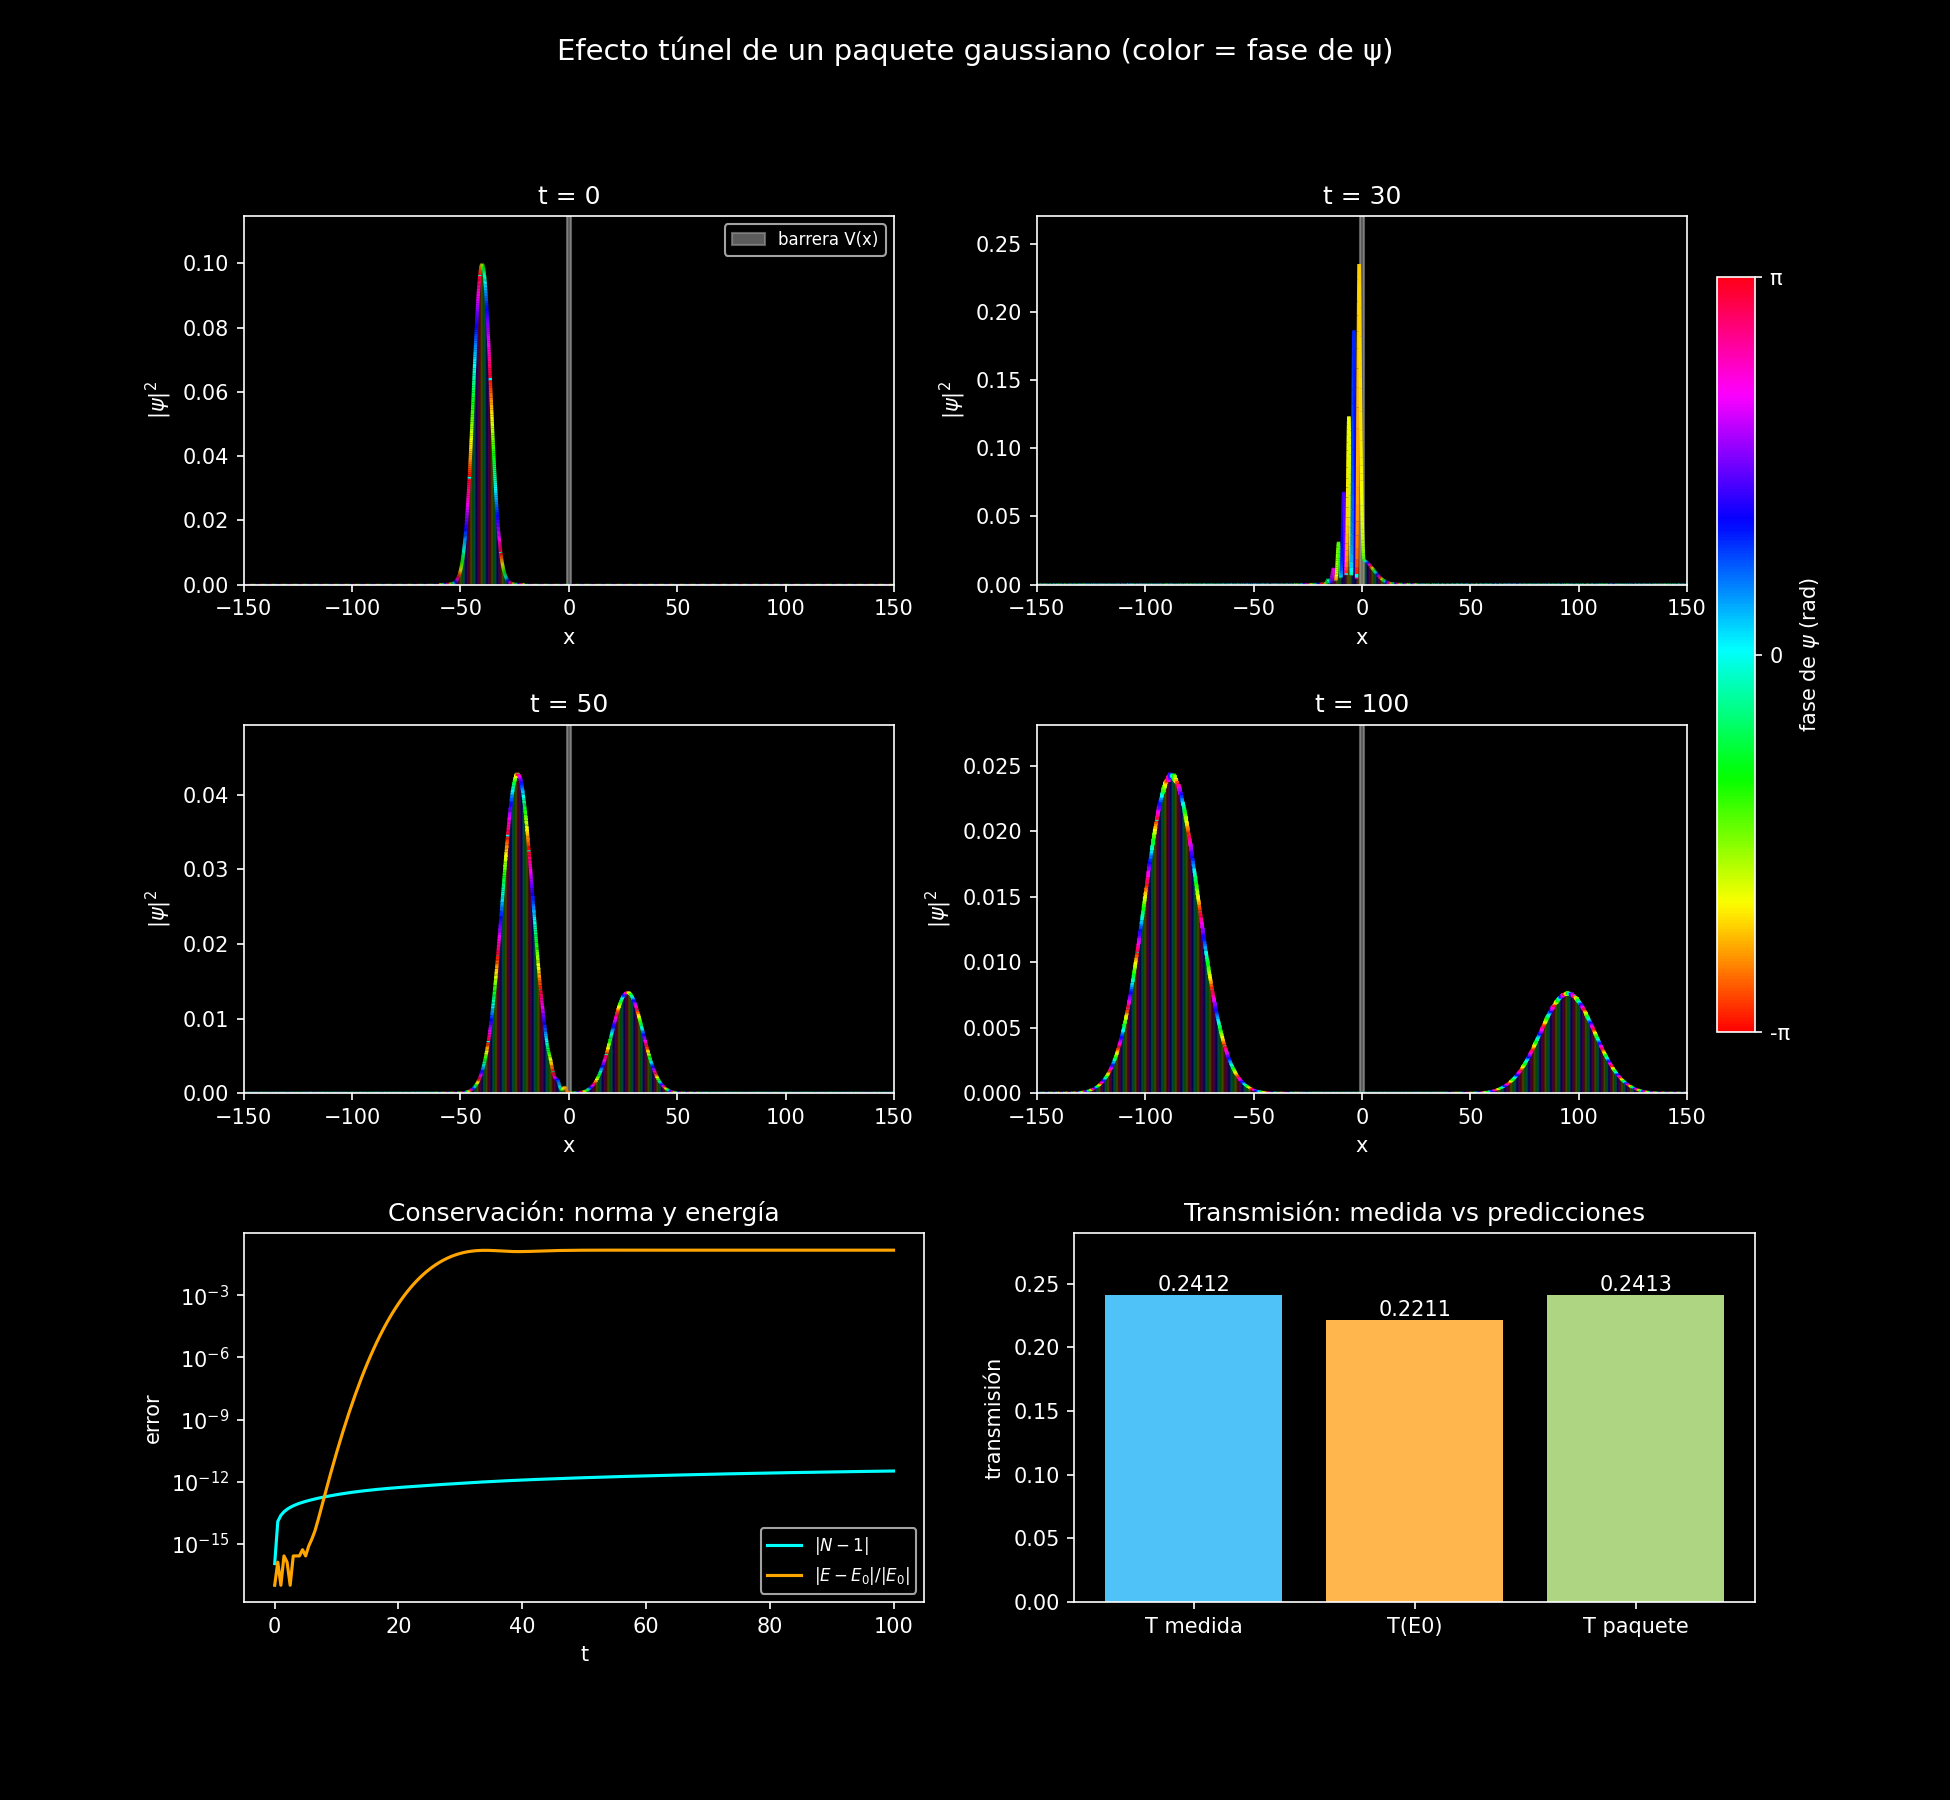
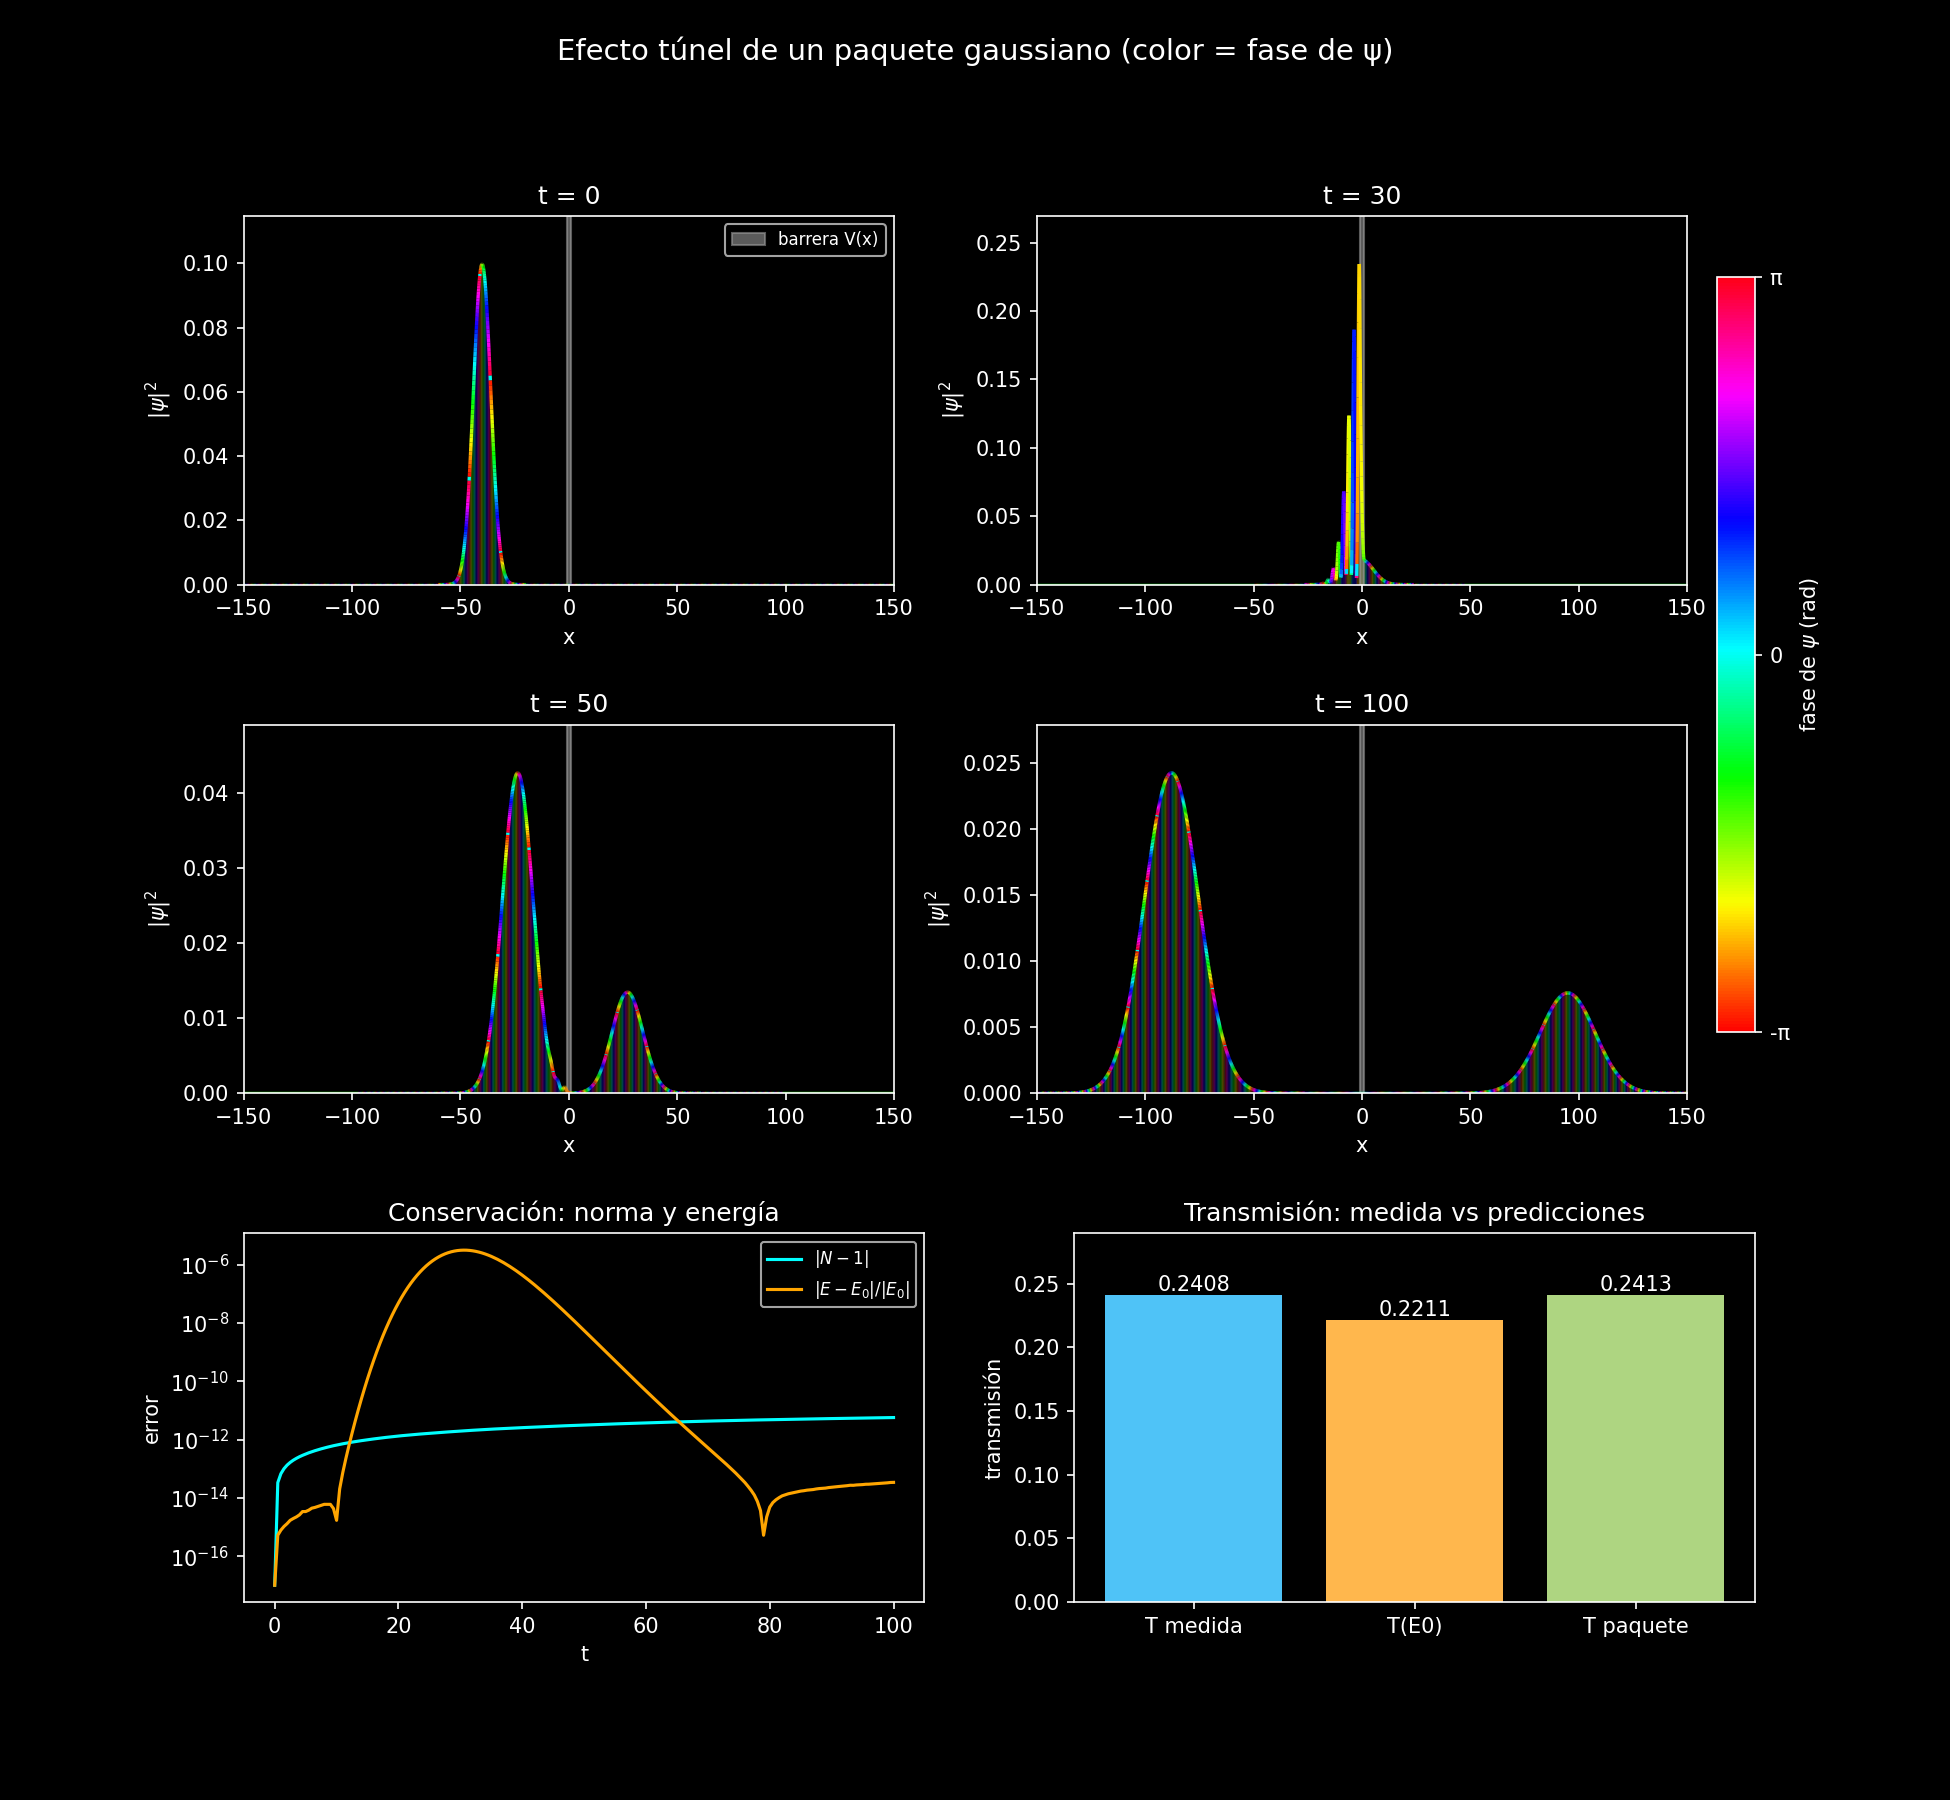
Experimento 01: base N=4096 dt=0.005 con fase por paso <= pi (decision 0007)

diff --git a/experiments/01_tunneling.py b/experiments/01_tunneling.py
@@ -9,6 +9,7 @@ Las fórmulas analíticas viven SOLO en este archivo (decisión 0005). Genera
 outputs/01_tunneling.png y outputs/report.md.
 """
 
+import math
 from pathlib import Path
 
 import matplotlib
@@ -30,9 +31,9 @@ from quantum1d import (  # noqa: E402
 )
 
 # --- Parámetros (physics-spec 11.1) ---
-N = 8192  # nodos; con L=409.6 da dx=0.05 (40 celdas en la barrera)
+N = 4096  # nodos; con L=409.6 da dx=0.1 (20 celdas en la barrera)
 L = 409.6  # largo del anillo; deja ~205 de margen a cada lado del paquete
-DT = 0.01  # paso temporal; el error O(dt^2) se verifica con la corrida dt=0.005
+DT = 0.005  # paso temporal; fase cinética por paso 2.47 rad <= pi (spec 6.4); O(dt^2) se verifica con CONV_DT
 T_FINAL = 100.0  # tiempo final: la colisión ocurre en t~31 y ya terminó
 X0 = -40.0  # posición inicial: 9.75 sigma del borde de la barrera, sin solapamiento
 K0 = 1.3  # momento medio (= velocidad); E0 = 0.845 < V0
@@ -41,8 +42,13 @@ V0 = 1.0  # altura de la barrera
 A = 2.0  # ancho nominal de la barrera
 BARRIER_CENTER = 0.01  # desplazado para que ningún borde (-0.99, 1.01) caiga sobre un nodo
 SNAPSHOT_TIMES = (0.0, 30.0, 50.0, 100.0)  # instantes de la figura
-RECORD_EVERY = 50  # pasos entre registros de norma/energía (0.5 de tiempo)
+RECORD_EVERY = 100  # pasos entre registros de norma/energía (0.5 de tiempo con DT=0.005)
 EDGE_MARGIN = 20.0  # franja junto a +-L/2 donde se mide la probabilidad que "da la vuelta"
+CONV_N = (8192, 0.00125)  # (n, dt) de la corrida de convergencia en dx: dx=0.05 y misma fase por paso (2.47 rad)
+CONV_DT = (4096, 0.0025)  # (n, dt) de la corrida de convergencia en dt: mismo dx, dt a la mitad
+# Fase cinética máxima por paso dt*kmax^2/2. La resonancia numérica entre modos de la grilla y el
+# paquete aparece cuando (k^2/2 - E)*dt llega a 2*pi; pi deja un margen x2 (physics-spec 6.4, decisión 0007).
+MAX_PHASE_PER_STEP = math.pi
 LOG_FLOOR = 1e-17  # piso para log10 de errores nulos (bajo el redondeo ~1e-16); solo para graficar
 VIEW_HALF_WIDTH = 150.0  # los paneles de |psi|^2 muestran x en [-150, 150]
 
@@ -77,6 +83,11 @@ def transmission_packet(psi0, grid, V0, a):
     return float(np.sum(weights[positive] * t_k) / np.sum(weights[positive]))
 
 
+def phase_per_step(grid, dt):
+    """Fase cinética máxima acumulada por paso, dt*kmax^2/2 (rad), con kmax = pi/dx (hbar = m = 1)."""
+    return float(dt * (np.pi / grid.dx) ** 2 / 2.0)
+
+
 def run(n, dt, record):
     """Evoluciona el paquete hasta T_FINAL en una grilla de n nodos y paso dt.
 
@@ -84,6 +95,11 @@ def run(n, dt, record):
     copias de psi en SNAPSHOT_TIMES. Devuelve (grid, V, psi0, psi_final, history).
     """
     grid = Grid(n, L)
+    phase = phase_per_step(grid, dt)
+    if phase > MAX_PHASE_PER_STEP:
+        raise ValueError(
+            f"fase por paso {phase:.4g} rad > {MAX_PHASE_PER_STEP:.4g}: riesgo de resonancia; reduzca dt o n"
+        )
     V = barrier(grid, BARRIER_CENTER, A, V0)
     psi0 = gaussian_packet(grid, X0, K0, SIGMA)
     total_steps = int(round(T_FINAL / dt))
@@ -225,9 +241,9 @@ def main():
     t_e0 = float(transmission_plane_wave(e0, V0, a_eff))
     t_packet = transmission_packet(psi0, grid, V0, a_eff)
 
-    grid_n, V_n, _, psi_n, _ = run(2 * N, DT, record=False)
+    grid_n, V_n, _, psi_n, _ = run(*CONV_N, record=False)
     t_n = measure(psi_n, grid_n, float(np.count_nonzero(V_n) * grid_n.dx))[0]
-    grid_d, V_d, _, psi_d, _ = run(N, DT / 2, record=False)
+    grid_d, V_d, _, psi_d, _ = run(*CONV_DT, record=False)
     t_d = measure(psi_d, grid_d, float(np.count_nonzero(V_d) * grid_d.dx))[0]
 
     norm_err = np.abs(np.array(hist["norm"]) - 1.0)
@@ -259,13 +275,18 @@ def main():
             ("abs_diff_measured_E0", abs(t_meas - t_e0)),
         ]),
         ("Convergencia", [
-            ("T_measured_N16384", t_n), ("T_measured_dt0005", t_d),
+            ("T_measured_convN", t_n), ("T_measured_convdt", t_d),
+            ("convN_N", CONV_N[0]), ("convN_dt", CONV_N[1]),
+            ("convdt_N", CONV_DT[0]), ("convdt_dt", CONV_DT[1]),
             ("conv_diff_N", abs(t_n - t_meas)), ("conv_diff_dt", abs(t_d - t_meas)),
         ]),
         ("Conservación", [
             ("norm_error_max", float(np.max(norm_err))),
             ("energy_rel_dev_max", float(np.max(e_dev))),
             ("energy_rel_dev_final", float(e_dev[-1])),
+            ("phase_per_step_base", phase_per_step(grid, DT)),
+            ("phase_per_step_convN", phase_per_step(grid_n, CONV_N[1])),
+            ("phase_per_step_convdt", phase_per_step(grid_d, CONV_DT[1])),
         ]),
     ]
     make_figure(OUTPUT_DIR / "01_tunneling.png", grid, V, hist, values)

diff --git a/STATUS.md b/STATUS.md
@@ -5,20 +5,14 @@
 - Paquete `quantum1d` (`Grid`, `check_resolution`, `gaussian_packet`, `free`, `barrier`, `harmonic`, `evolve`, diagnósticos) según `docs/physics-spec.md` sección 12.
 - `experiments/01_tunneling.py` y `experiments/02_euler_vs_splitstep.py`, con `outputs/01_tunneling.png`, `outputs/02_euler_vs_splitstep.png` y `outputs/report.md`.
 - Verificación rápida del coder con scripts temporales fuera del repo (no son tests): AC1-AC17, AC19, AC21, AC22, AC24, AC25, AC27 pasan. Números: norma `|N-1|` < 5e-13 en AC11; reversibilidad 3.3e-14; convergencia en dt con pendiente 2.007; pico a pico de energía del oscilador 4.9999e-5.
-- Experimento 01 (`outputs/report.md`): T_measured = 0.2412214, T_packet = 0.2412562 (diferencia 3.5e-5), T_E0 = 0.2211382 (diferencia con la medida 0.0201); conv_diff_N = 7.0e-5, conv_diff_dt = 6.0e-5; norm_error_max = 3.3e-12.
+- Experimento 01 (revisión 1: N=4096, dx=0.1, dt=0.005; `outputs/report.md`): T_measured = 0.2407910, T_packet = 0.2412562 (diferencia 4.7e-4), T_E0 = 0.2211382 (diferencia con la medida 0.0197); conv_diff_N = 3.5e-4 (N=8192, dt=0.00125), conv_diff_dt = 4.7e-6 (dt=0.0025); norm_error_max = 5.7e-12; energy_rel_dev_max = 3.2e-6; P_near_edges = 1.8e-13; P_inside_barrier = 4.0e-13; fase por paso 2.467 rad (base y convN), 1.234 rad (convdt).
 - Experimento 02: `euler_norm_error_final` = 7.509e-4, `splitstep_norm_error_final` = 2.46e-12, `euler_norm_monotonic=True`.
 
 ## Falla
 
-AC18 falla en 3 de 14 condiciones (no se tocaron parámetros ni tolerancias):
+- AC18 condición 6, `|T_measured+R_measured+P_inside_barrier-1| < 1e-10`: con los valores impresos del reporte (10 cifras, `.10g`) la suma da 1.004e-10 de error. Es redondeo de impresión: el error real es `norm_error_max` = 5.7e-12. Las otras 14 condiciones de AC18 pasan. No cambié el formato ni el umbral; decisión pendiente (por ejemplo imprimir con `.12g`).
 
-| Clave | Medido | Umbral |
-|---|---|---|
-| energy_rel_dev_max | 0.1505 | < 1e-3 |
-| P_near_edges | 5.43e-6 | < 1e-10 |
-| P_inside_barrier | 1.136e-6 | < 1e-6 |
-
-Hipótesis: con dx = 0.05 y dt = 0.01, el número de onda de Nyquist k_max = 62.8 da k_max^2 dt / 2 = 19.7 rad por paso, muy por encima de pi. La discontinuidad de V excita componentes de alto k (P(|k|>5) ~ 1.4e-4 a t >= 50) que el split-step propaga con fase mal resuelta (resonancia de Strang). Esa radiación de alto k pesa mucho en la energía cinética (k^2/2 ~ 2000), recorre el anillo (v = k) y llega a los bordes. La transmisión no se ve afectada (T_measured coincide con T_packet a 3.5e-5). Evidencia: con dt = 0.0025 (mismo n) la desviación de energía baja a ~1e-7 relativo y P(|k|>5) a 8e-17 en t = 100; con n = 4096 (dx = 0.1) y dt = 0.01 la energía se conserva a ~5e-7. Las condiciones de AC18 sobre energía y bordes probablemente suponen que ese efecto no ocurre (physics-spec 6.3 advierte que la serie de Hamiltoniano modificado es formal si dt k_max^2/2 >> 1 y lo estimaba en ~1e-4). Decisión pendiente del arquitecto: cambiar parámetros (dt menor o dx mayor) o criterios.
+Resuelto en la revisión 1: las condiciones de energía y bordes de AC18 fallaban (0.15, 5e-6) por fase cinética por paso de 19.7 rad (N=8192, dt=0.01), que resonaba con modos de k alto. Con dt*kmax^2/2 <= pi (spec 6.4, decisión 0007) quedan en 3.2e-6 y 1.8e-13.
 
 ## Lo que NO verifiqué
 
@@ -30,6 +24,6 @@ Hipótesis: con dx = 0.05 y dt = 0.01, el número de onda de Nyquist k_max = 62.
 
 ## Mejoras no implementadas
 
-- Guarda de estabilidad espectral en `evolve` (aviso si dt * k_max^2 / 2 >> pi).
+- Guarda o advertencia de fase por paso en `evolve` (aviso si dt * k_max^2 / 2 > pi).
 - Filtro de alto k o paso adaptativo para barreras de borde abrupto.
 - Parámetros de CLI para los experimentos.

diff --git a/outputs/report.md b/outputs/report.md
@@ -4,11 +4,11 @@
 
 | clave | valor |
 |---|---|
-| N | 8192 |
+| N | 4096 |
 | L | 409.6 |
-| dx | 0.05 |
-| dt | 0.01 |
-| steps | 10000 |
+| dx | 0.1 |
+| dt | 0.005 |
+| steps | 20000 |
 | t_final | 100 |
 | x0 | -40 |
 | k0 | 1.3 |
@@ -16,9 +16,9 @@
 | V0 | 1 |
 | a | 2 |
 | barrier_center | 0.01 |
-| n_barrier_cells | 40 |
+| n_barrier_cells | 20 |
 | a_effective | 2 |
-| kmax | 62.83185307 |
+| kmax | 31.41592654 |
 | guard_rhs | 8.2 |
 
 ## Energías
@@ -32,10 +32,10 @@
 
 | clave | valor |
 |---|---|
-| T_measured | 0.2412213765 |
-| R_measured | 0.7587774871 |
-| P_inside_barrier | 1.136417414e-06 |
-| P_near_edges | 5.431160617e-06 |
+| T_measured | 0.2407909679 |
+| R_measured | 0.7592090322 |
+| P_inside_barrier | 4.031401776e-13 |
+| P_near_edges | 1.798952666e-13 |
 
 ## Predicciones
 
@@ -43,22 +43,29 @@
 |---|---|
 | T_E0 | 0.2211381545 |
 | T_packet | 0.2412562067 |
-| abs_diff_measured_packet | 3.48302061e-05 |
-| abs_diff_measured_E0 | 0.02008322191 |
+| abs_diff_measured_packet | 0.0004652388107 |
+| abs_diff_measured_E0 | 0.0196528133 |
 
 ## Convergencia
 
 | clave | valor |
 |---|---|
-| T_measured_N16384 | 0.2412912035 |
-| T_measured_dt0005 | 0.241161228 |
-| conv_diff_N | 6.982707537e-05 |
-| conv_diff_dt | 6.014850376e-05 |
+| T_measured_convN | 0.241141476 |
+| T_measured_convdt | 0.2407956763 |
+| convN_N | 8192 |
+| convN_dt | 0.00125 |
+| convdt_N | 4096 |
+| convdt_dt | 0.0025 |
+| conv_diff_N | 0.0003505081936 |
+| conv_diff_dt | 4.708466218e-06 |
 
 ## Conservación
 
 | clave | valor |
 |---|---|
-| norm_error_max | 3.269162718e-12 |
-| energy_rel_dev_max | 0.1504681634 |
-| energy_rel_dev_final | 0.1500554153 |
+| norm_error_max | 5.705880213e-12 |
+| energy_rel_dev_max | 3.187376838e-06 |
+| energy_rel_dev_final | 3.397795054e-14 |
+| phase_per_step_base | 2.4674011 |
+| phase_per_step_convN | 2.4674011 |
+| phase_per_step_convdt | 1.23370055 |
